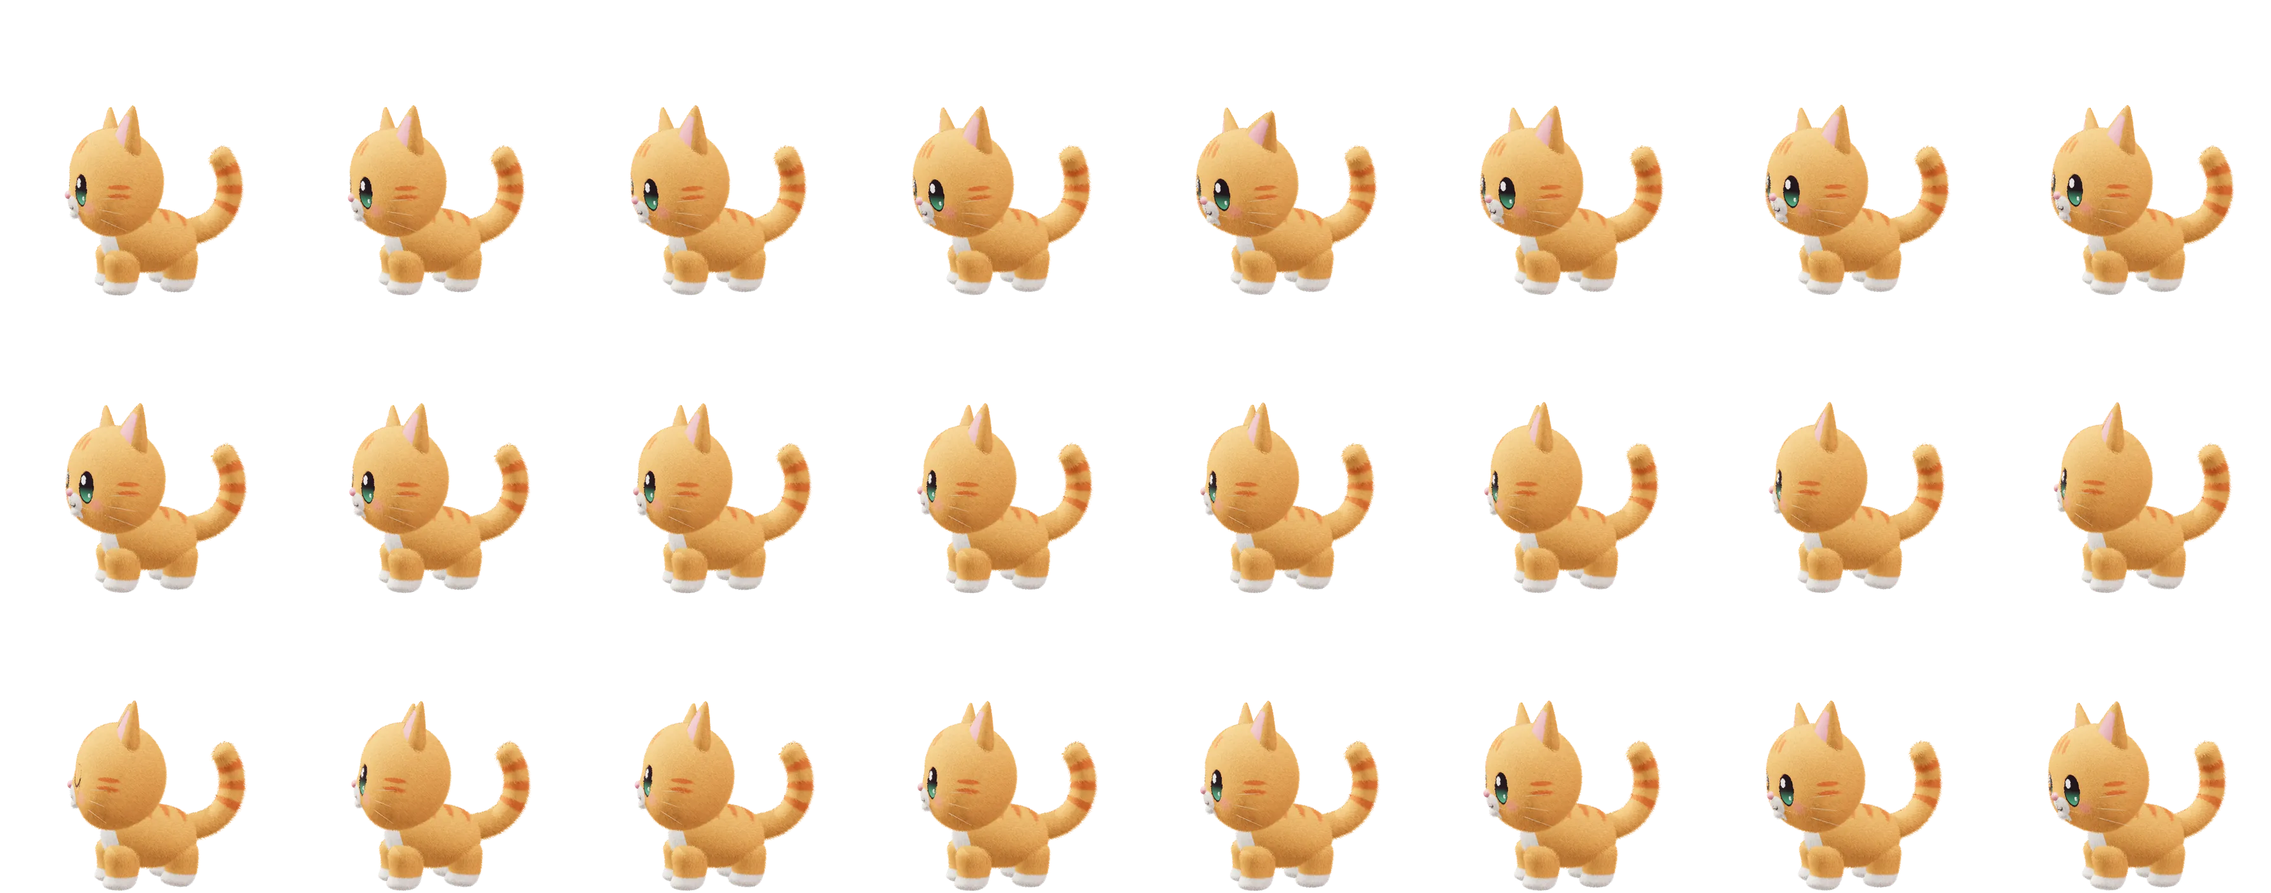
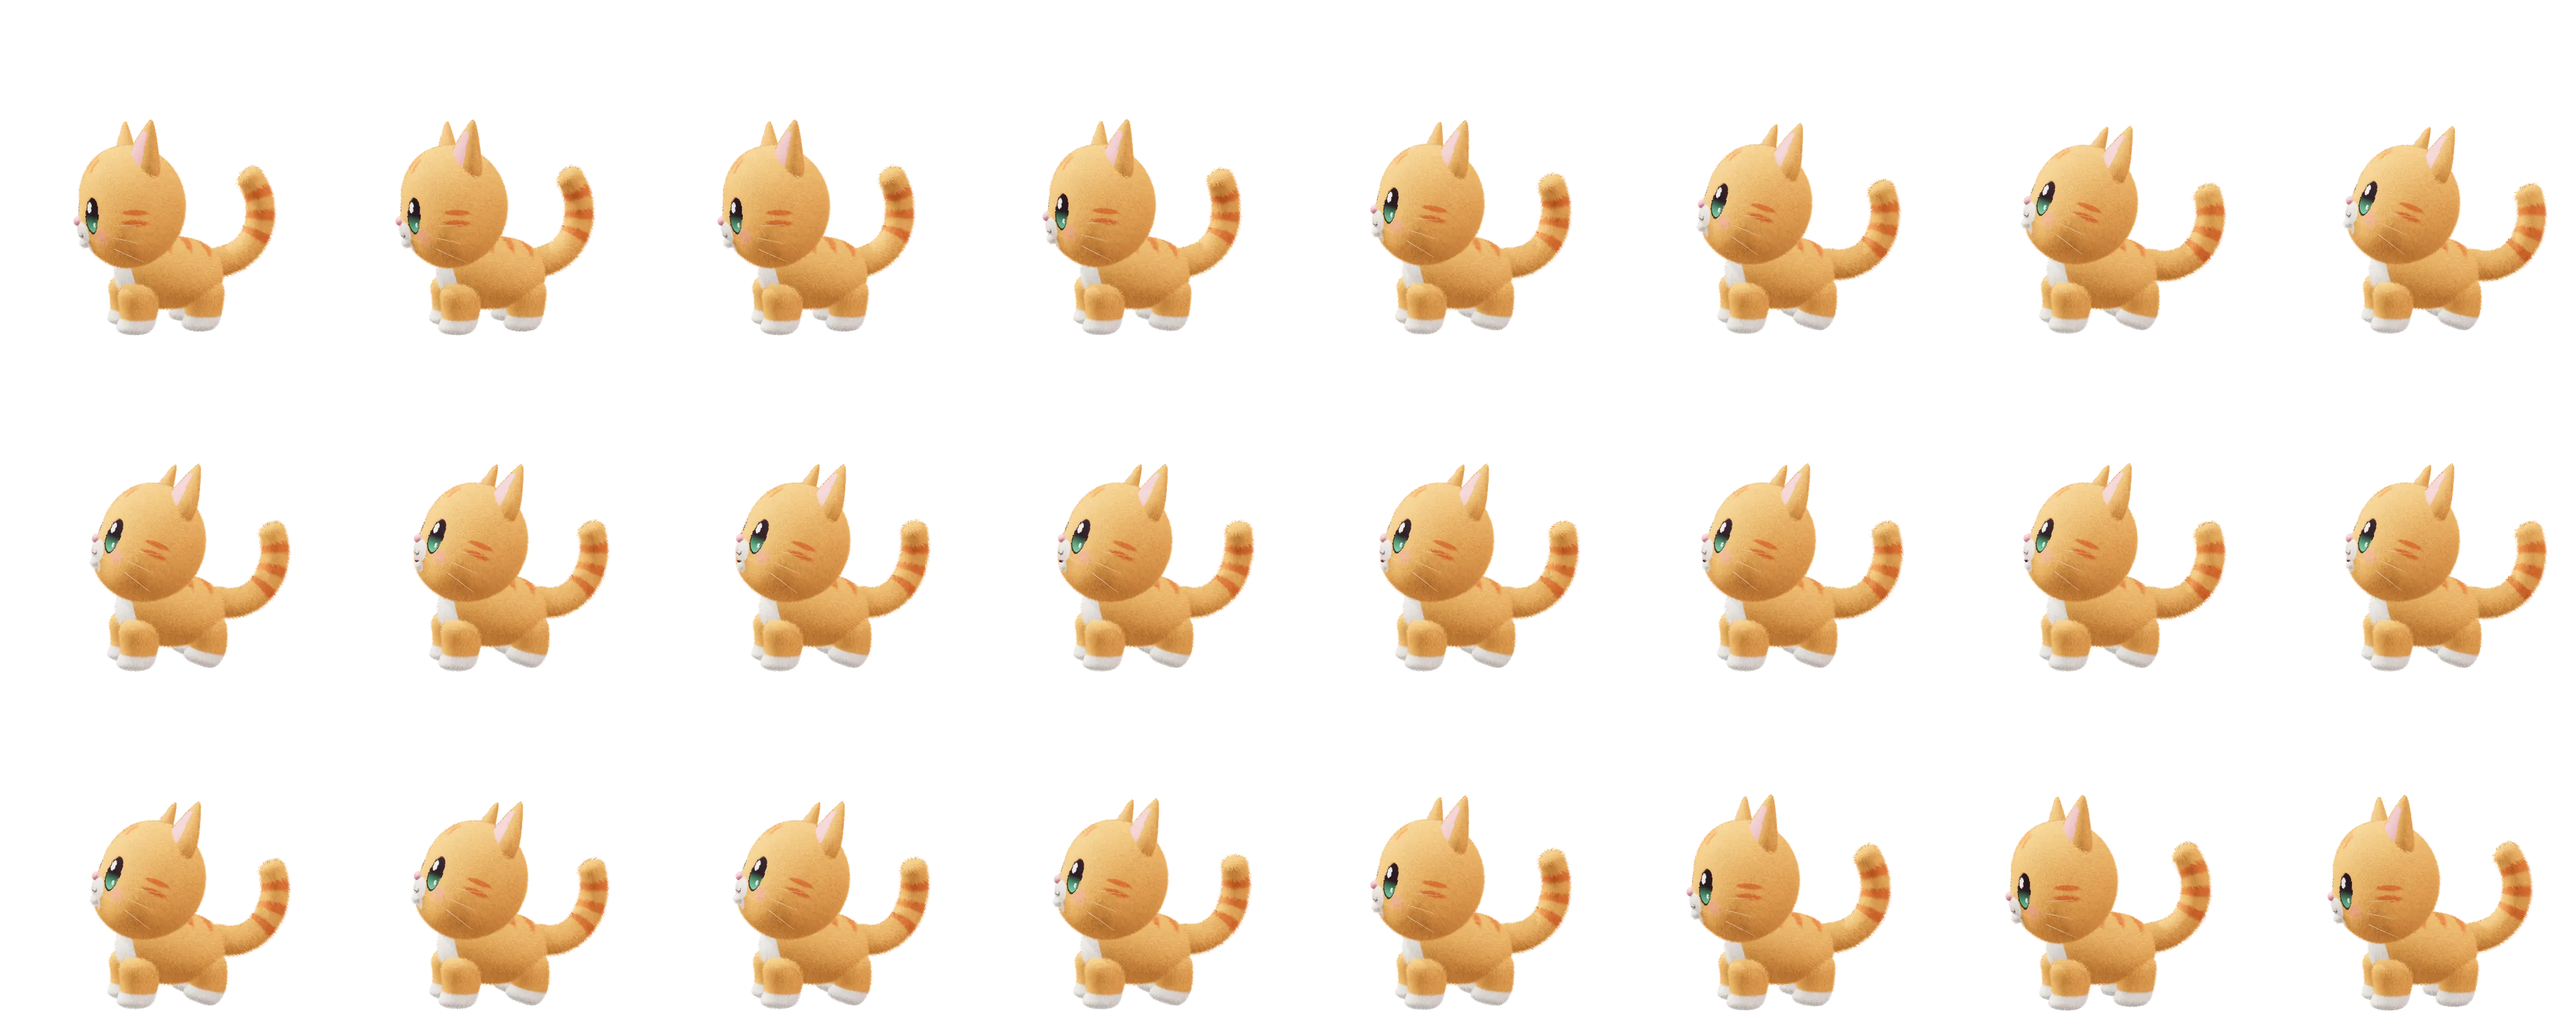
Kitten: meow animation on tap, larger sprites
Claude-Session: https://claude.ai/code/session_012pkuXRzfxjjGfxKfGxjSNM

diff --git a/couples/src/lib/kittenSprites.ts b/couples/src/lib/kittenSprites.ts
@@ -6,15 +6,15 @@ export type KittenClip = 'idle' | 'walk' | 'run' | 'jump' | 'sit' | 'sleep' | 'c
 export type ClipInfo = { frames: number; fps: number; cols: number; rows: number; src: ImageSourcePropType };
 
 export const KITTEN_SPRITES = {
-  cellW: 447,
-  cellH: 469,
+  cellW: 507,
+  cellH: 532,
   /** пикселей листа на метр мира (для скорости шагов без «скольжения») */
-  pxPerM: 513.113,
+  pxPerM: 581.528,
   /** где в ячейке центр тела по x и линия пола по y */
-  anchorX: 222.01,
-  floorY: 466.25,
+  anchorX: 251.61,
+  floorY: 528.42,
   /** высота котика (стоя) на листе, px */
-  catH: 300,
+  catH: 340,
   /** на листе котик смотрит влево */
   clips: {
     idle: { frames: 20, fps: 10, cols: 8, rows: 3, src: require('../../assets/kitten/idle.webp') },

diff --git a/couples/assets/kitten/CREDITS.md b/couples/assets/kitten/CREDITS.md
@@ -1,0 +1,6 @@
+# 3D-котик
+
+Модель и анимации котика — «Free Low-Poly Animals» (Vuena), лицензия CC0 1.0 (общественное достояние):
+https://github.com/Vuena/free-low-poly-animals-cc0
+
+Сглаживание модели, пушистый мех, усы, свет и покадровый рендер в листы анимаций сделаны для Remedy.
